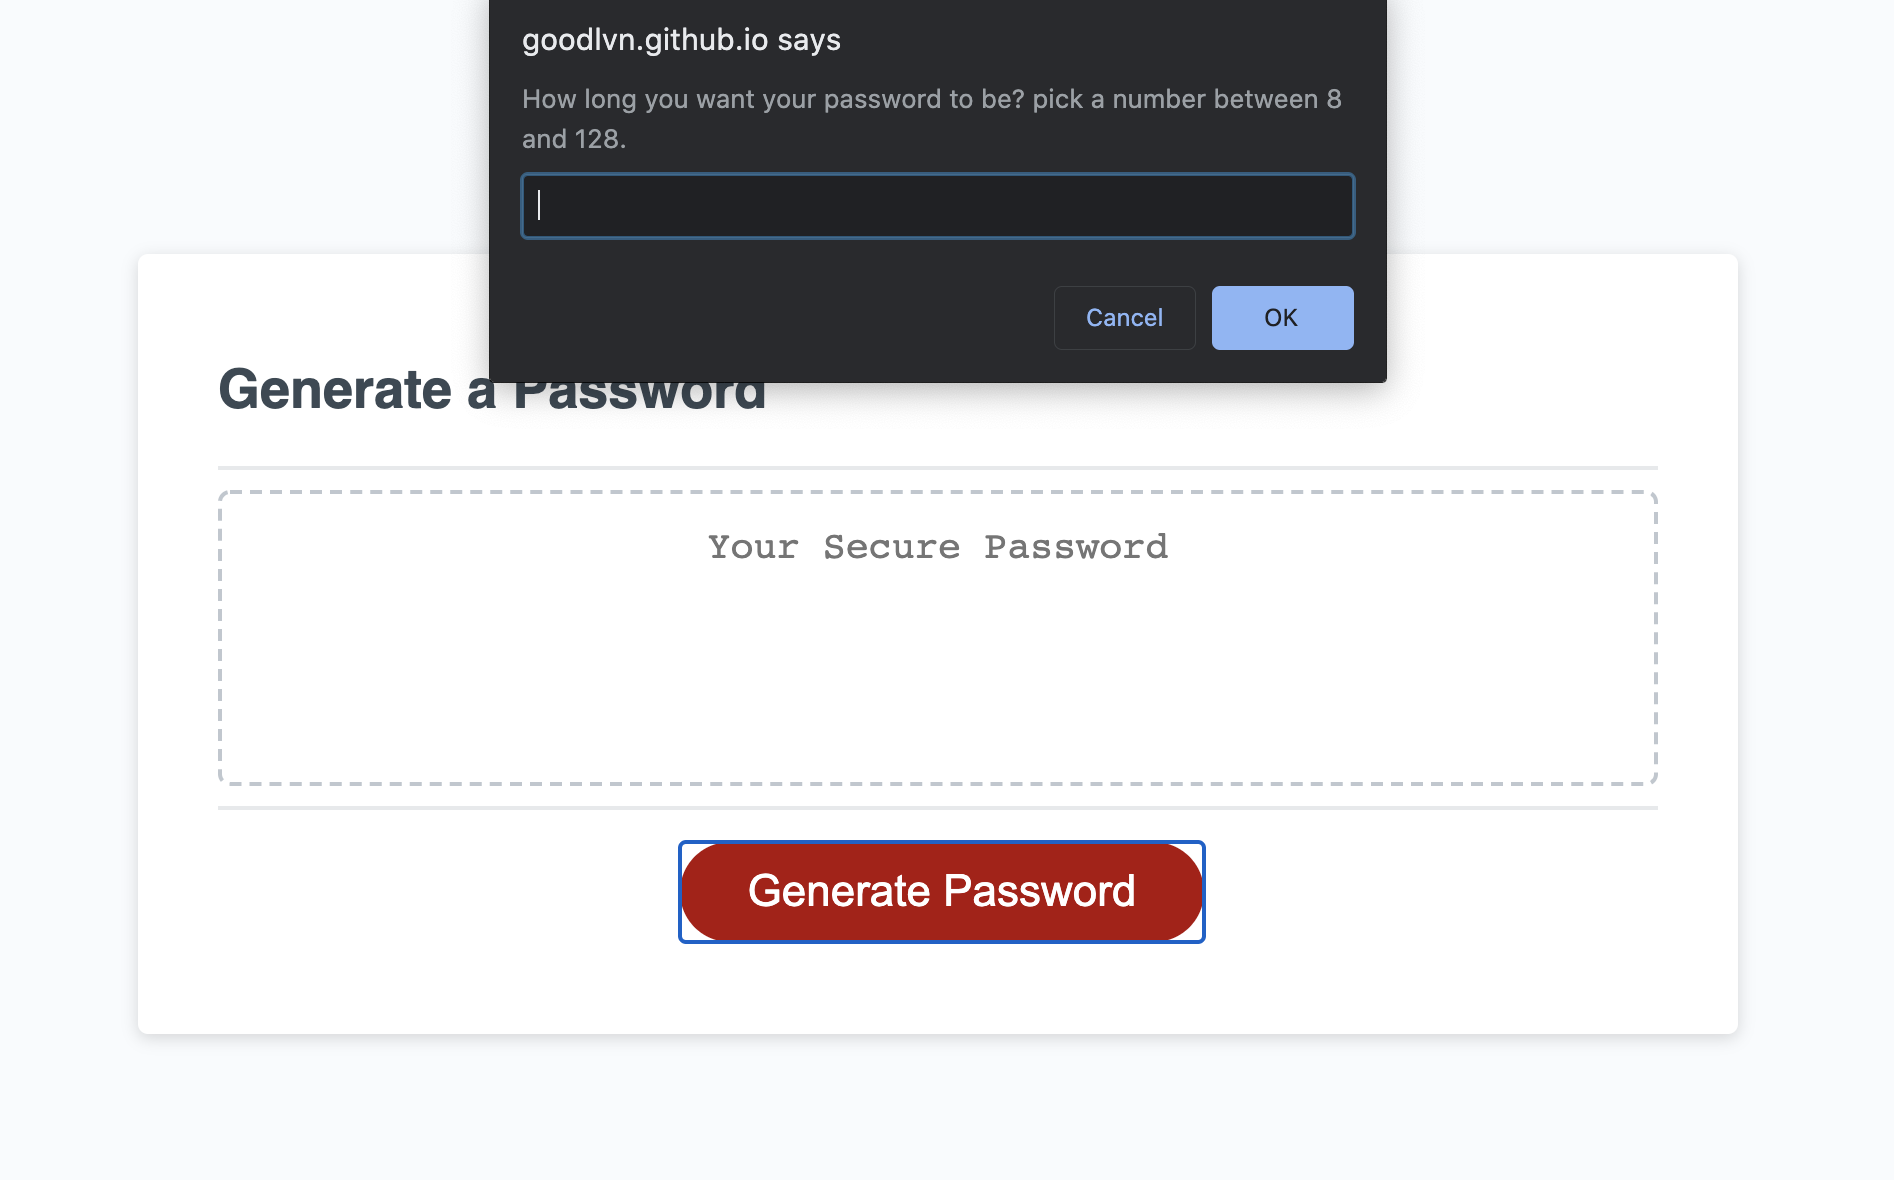
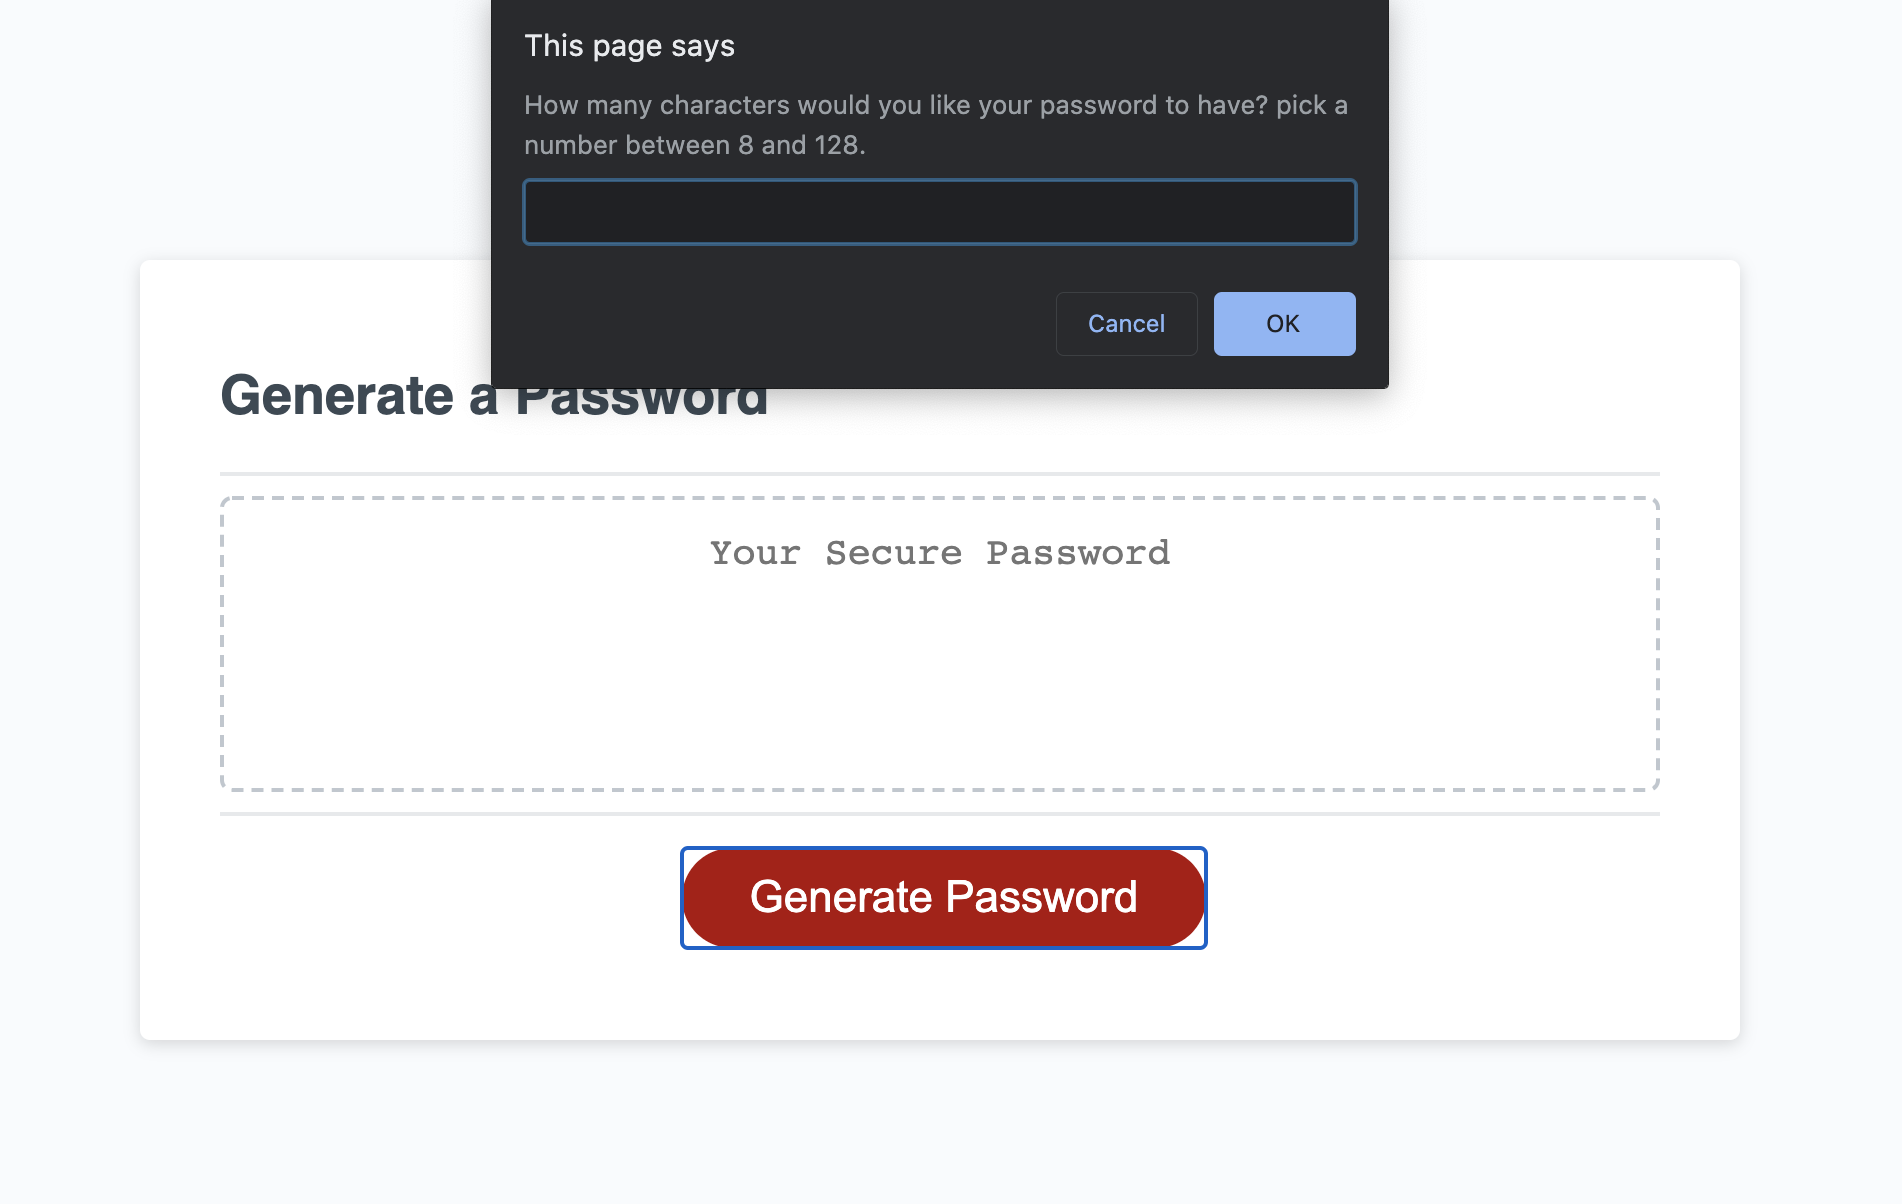
add README.md and final changes to script.js

diff --git a/script.js b/script.js
@@ -40,7 +40,6 @@ function randomNumber(argument) {
 
 function addValue(characterChoice){
   comboArray.push.apply(comboArray, characterChoice);
-
 }
 
 function generatePassword() {
@@ -51,7 +50,7 @@ function generatePassword() {
 
   while(!validInput){
 
-    passwordLength = prompt("How long you want your password to be? pick a number between 8 and 128.");
+    passwordLength = prompt("How many characters would you like your password to have? pick a number between 8 and 128.");
 
       if (passwordLength.match(numCheck) && 7 < passwordLength && passwordLength < 129){
 
@@ -65,9 +64,9 @@ function generatePassword() {
     }
   }
 
-  lowerCaseIsTrue = confirm("Would you like to use lowercase letters in your password?");
+  lowerCaseIsTrue = confirm("Would you like to use lower case letters in your password?");
 
-  upperCaseIsTrue = confirm("would you like to use uppercase letters in your password?");
+  upperCaseIsTrue = confirm("would you like to use upper case letters in your password?");
 
   numbersIsTrue = confirm("would you like to use numbers in your password?");
 

diff --git a/README.md b/README.md
@@ -1,1 +1,107 @@
 # random-password-generator-prompt
+
+In this [project](https://goodlvn.github.io/random-password-generator-prompt/) we are prompted to create a random password generator that outputs a strong password that meets given criteria. The criteria/parameters of the random password are input through built in browser functions that communicate and interact with the user. We used functions such as prompts, confirms, and alerts to make sure the program recived the proper criteria; length of characters, lower case letters, upper case letters, numbers, and special characters all being options. 
+
+## Screenshots of project 
+
+starting screen - press button to initiate logic
+![start screen](assets/images/rpg-1.png)
+
+prompt function - used to gather length of password
+![start screen](assets/images/rpg-2.png)
+
+confirm function - used to select character criteria
+![start screen](assets/images/rpg-3.png)
+
+generate password based on input criteria
+![start screen](assets/images/rpg-4.png)
+
+## How to use: 
+
+1. open in browser 
+2. click "Generate Password" 
+3. answer browser prompts
+4. use generated password
+5. for continued use; repeat steps 2-4 
+
+## Technolgies used 
+* Javascript
+* HTML
+* CSS
+
+## Why does this project stand out?
+
+What makes this project stand out from the past homework assignments we have turned in is the fact that we had to think about and create our own logic in order to get the desired out come. Although we were given a couple of guidlines (i.e. writePassword function title, generatePassword function title, and the event listener that links the button to the start of the function) we had to use a combination of built in javascript functions, small side functions that condense code, and good logic flow to make the code work. We also had an oportunity to look past the scope of what we have learned in class in order to improve our code!
+
+### Side functions that condese code & Built in functions
+```
+function randomNumber(argument) {
+
+  return Math.floor(Math.random() * argument);
+}
+
+function addValue(characterChoice){
+  comboArray.push.apply(comboArray, characterChoice);
+}
+```
+
+#### Use example ^
+```
+if(lowerCaseIsTrue) {
+
+    ranumL = randomNumber(lowerCase.length);
+
+    ranLower = lowerCase[ranumL];
+
+    addValue(lowerCase);
+
+}
+
+if(upperCaseIsTrue) {
+
+    ranumU = randomNumber(upperCase.length);
+
+    ranUpper = upperCase[ranumU];
+
+    addValue(upperCase);
+}
+```
+
+### Going outside scope of class - regular expressions 
+
+```
+var numCheck = /^[0-9]+$/;
+
+validInput = false;
+
+while(!validInput){
+
+    passwordLength = prompt("How many characters would you like your password to have? pick a number between 8 and 128.");
+
+    if (passwordLength.match(numCheck) && 7 < passwordLength && passwordLength < 129){
+
+      validInput = true;
+      
+    } else {
+
+      passwordLength = 0;
+      
+      alert("Please input a number between 8 and 128");
+    }
+}
+```
+## Credits 
+
+* [How to use regular expressions to accept only numbers](https://www.w3resource.com/javascript/form/all-numbers.php#:~:text=size%3A%2010pt%3B%20%7D-,To%20check%20for%20all%20numbers%20in%20a%20field,is%20the%20complete%20web%20document.)
+
+* [How to pass data from one array into another](https://www.techiedelight.com/copy-elements-array-into-another-array-javascript/)
+
+* Jennifer Henry - inspo for the lay out of logical flow of my code and the use of functions that condese repeated code
+
+* Kevin Luo - helped me with one of my bugs (text was not clearin upon request of new password) by directing my focus to the scope of my variables 
+
+
+
+
+
+
